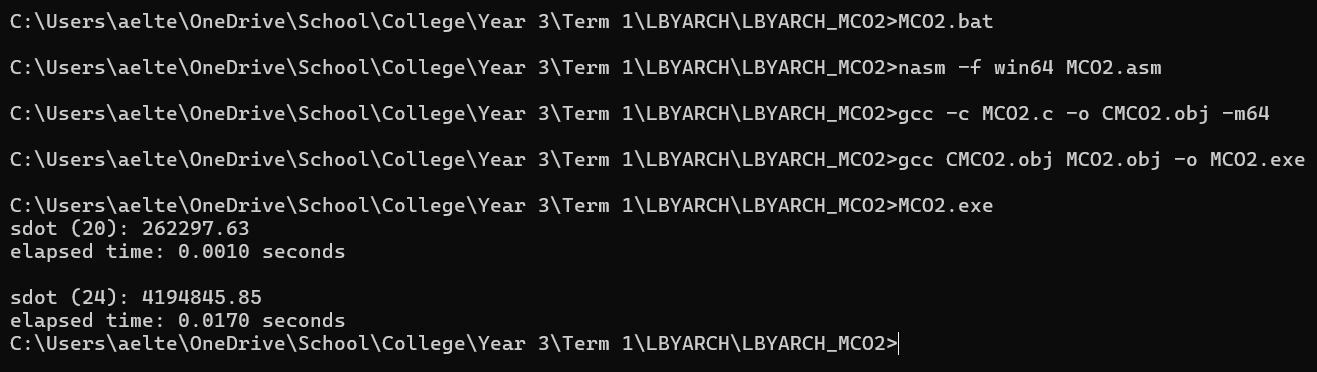
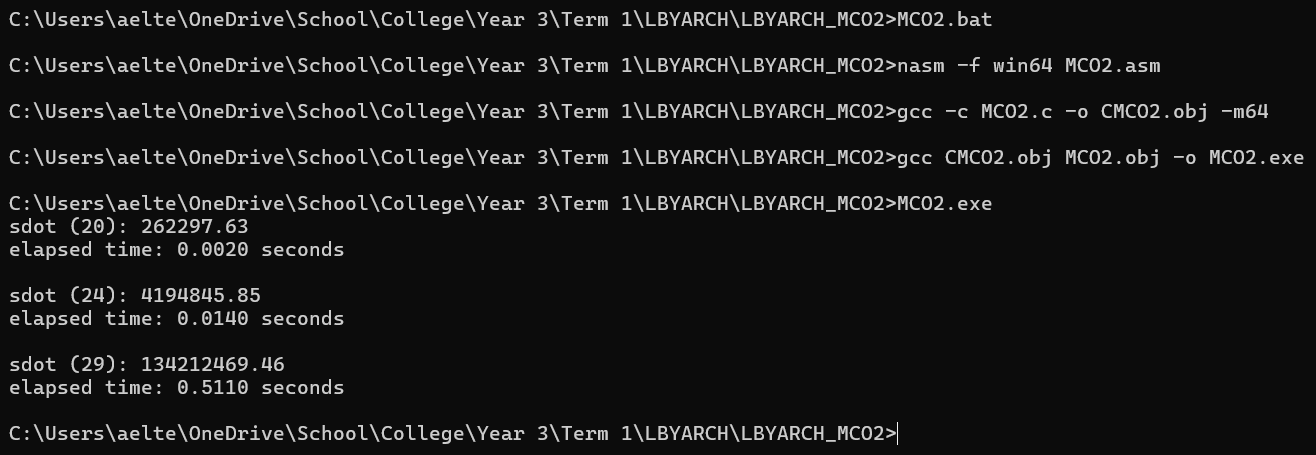
Upated Screenshots and Added Newline to Printf

Changed region(s): [[0.0, 0.1183, 0.997, 0.7392], [0.0, 0.7688, 0.6854, 0.9758], [0.0, 0.0, 0.7789, 0.0887]]

diff --git a/MCO2.c b/MCO2.c
@@ -81,7 +81,7 @@ int main() {
 	elapsed_time = (double)(end_time - start_time) / CLOCKS_PER_SEC;
 	
 	printf("sdot (29): %.2f\n", sdot);
-	printf("elapsed time: %.4f seconds", elapsed_time);
+	printf("elapsed time: %.4f seconds\n", elapsed_time);
 	
 	return 0;
 }

diff --git a/README.md b/README.md
@@ -4,8 +4,8 @@ LBYARCH MCO2
 Google Drive Folder for Vector Elements:
 https://drive.google.com/drive/folders/1ka8_ms5F_SCvAwsTGNa2eAoQQ79deU-4?usp=sharing
 
-Screenshot of the Result After Running the C Program:
+Screenshot of the Result After Running the C Reference Program:
 ![C Program Result](image.png)
 
 Screenshot of the Result After Running the Kernel:
-![Kernel Result](image-1.png)
+![Kernel Program Result](image-1.png)
